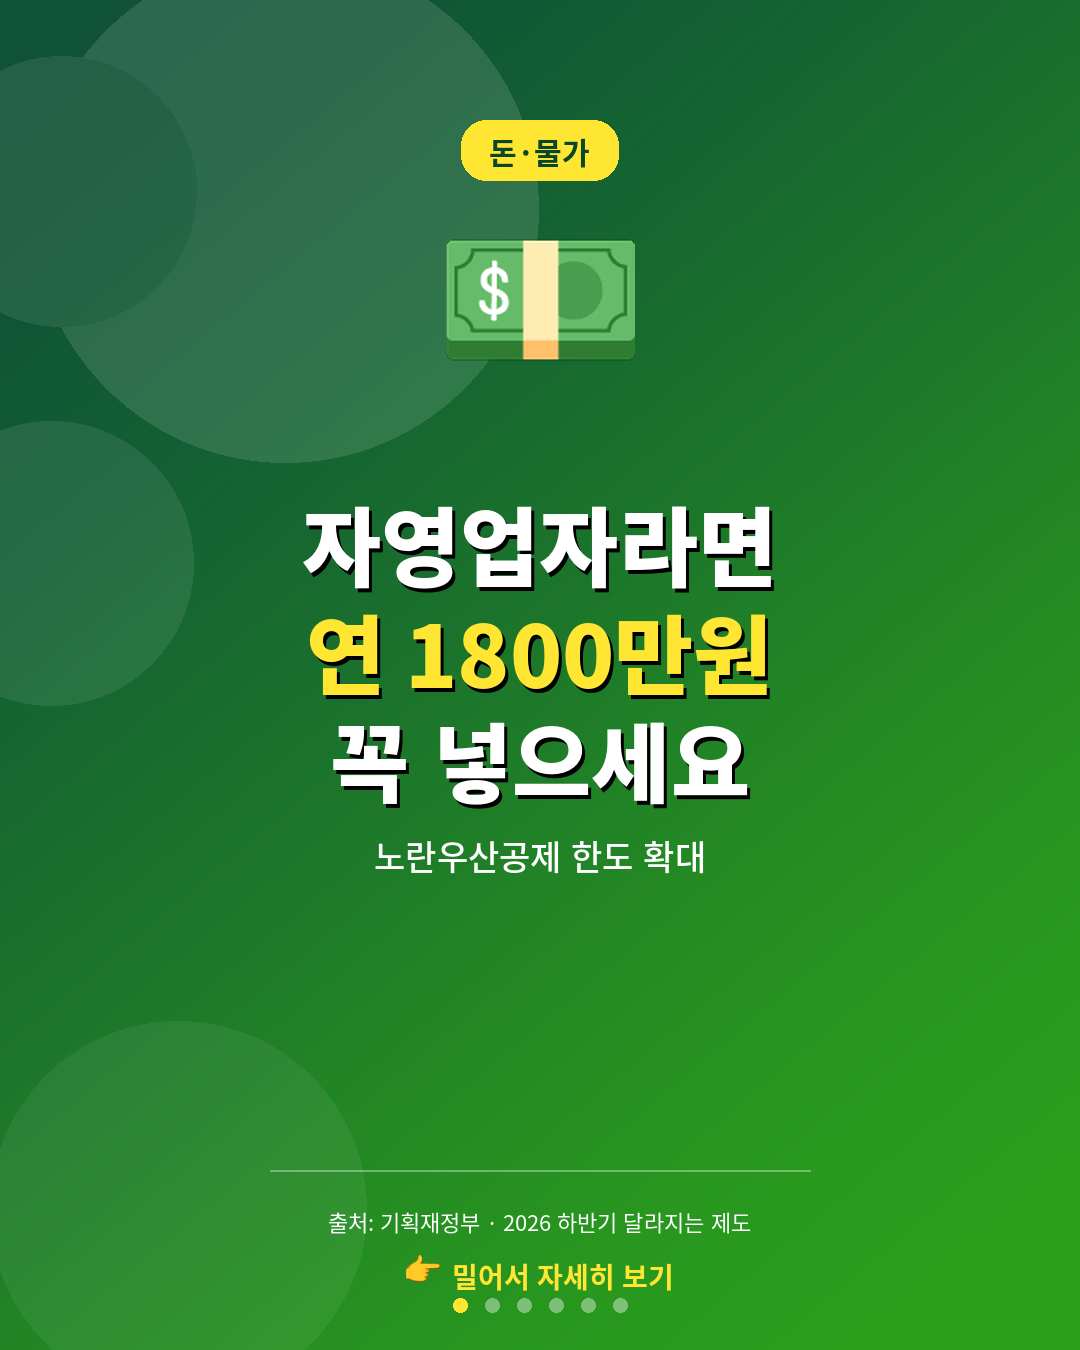
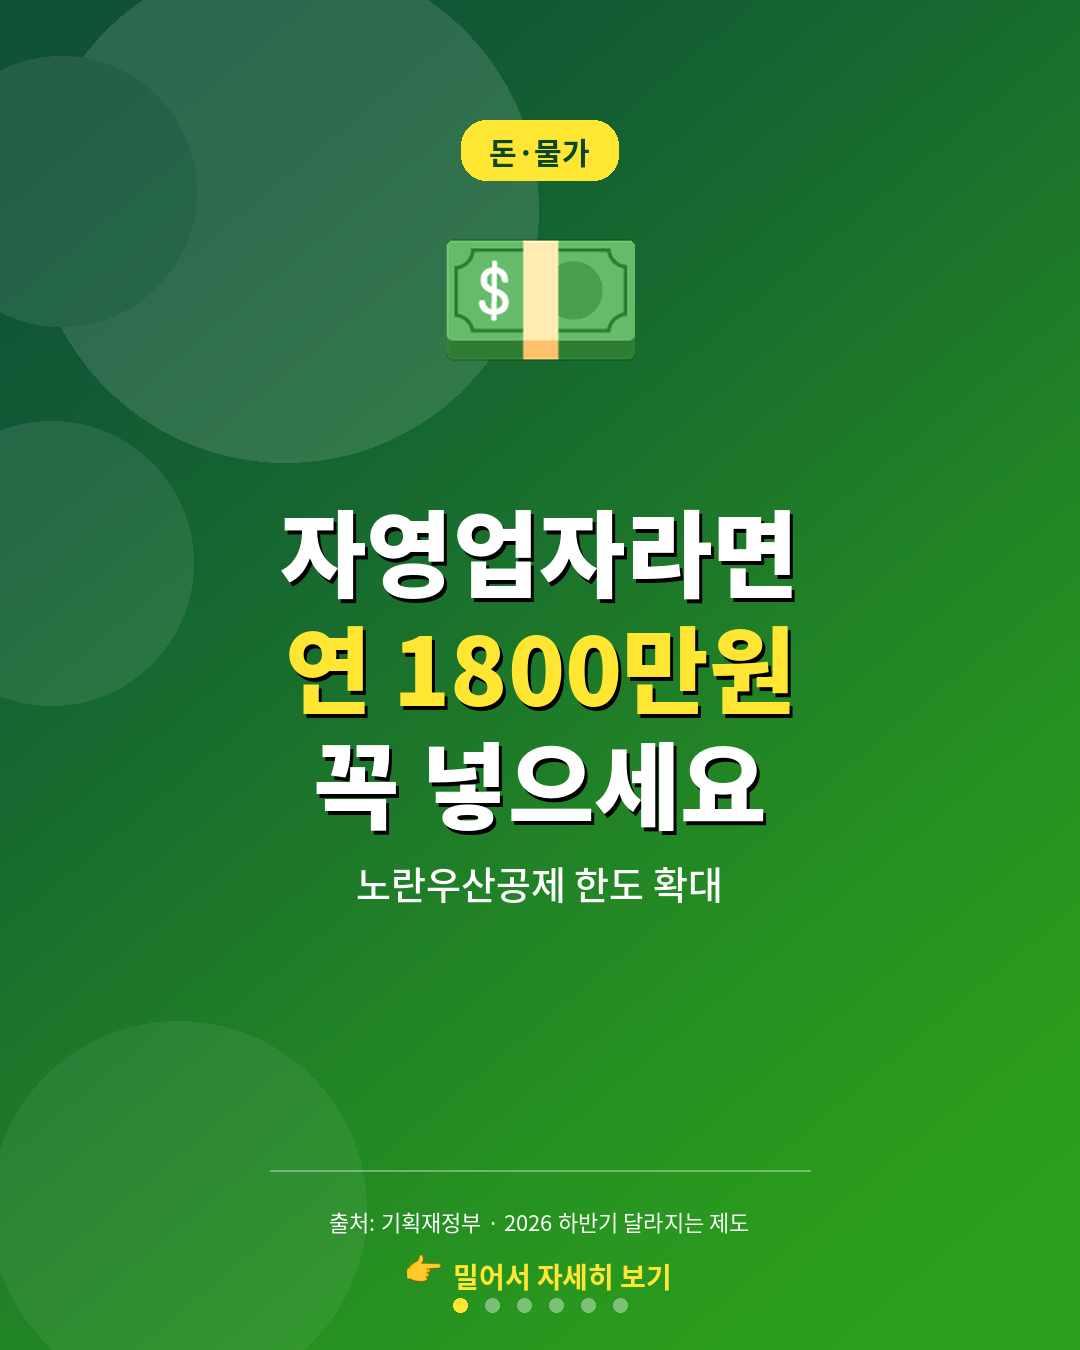
본문을 키우고 한눈에 읽히게 재구성
카드뉴스는 읽는 글이 아니라 스치며 보는 글인데 본문이 200자대 문단이라
글자만 키우면 들어가지 않았다. 분량을 줄이고 핵심 수치를 분리한다.

- 본문 38→46px, 소제목 태그 38→42px, 커버 타이틀 86→94px
- 본문에 <y>…</y> 마크업 지원. 해당 구간만 포인트 컬러로 찍어
  "최대 50배", "1,800만원" 같은 수치가 먼저 읽히게 함
- 대본 3편 본문을 200자대 → 50자 안팎으로 압축. 기존 긴 문장은
  narration으로 옮겨 릴스 TTS용으로 보존
- 줄바꿈이 숫자를 쪼개 "10만원"이 "1/0만원"으로 끊기던 문제 수정.
  숫자와 뒤따르는 한글 단위를 한 토큰으로 묶음
- 콘텐츠 가드 추가: "korean won" 검색에 북한 지폐가 걸려 김일성 초상이
  배경으로 깔린 사례가 있어, 제목·출처 URL 기준으로 부적합 소재를 제외.
  해당 검색어도 국가 특정을 빼고 사물 중심으로 교체

Claude-Session: https://claude.ai/code/session_01W4yCPYAiRNGdqbEFr8kcA6

diff --git a/cardnews.py b/cardnews.py
@@ -275,6 +275,59 @@ def wrap_char(draw, text, fnt, max_w):
         lines.append(cur)
     return lines
 
+# ── 본문 강조 마크업 ──────────────────
+# 본문에 <y>…</y> 를 쓰면 그 구간만 포인트 컬러로 찍어 핵심 수치가 먼저 읽히게 한다.
+_MARK_RE = re.compile(r"<(/?)([yr])>")
+
+def parse_marked(text):
+    """'<y>1800만원</y>까지' → [('1800만원', True), ('까지', False)]"""
+    runs, buf, on = [], "", False
+    pos = 0
+    for m in _MARK_RE.finditer(text or ""):
+        buf += text[pos:m.start()]
+        closing = m.group(1) == "/"
+        if (not closing) != on:
+            if buf:
+                runs.append((buf, on))
+                buf = ""
+            on = not closing
+        pos = m.end()
+    buf += (text or "")[pos:]
+    if buf:
+        runs.append((buf, on))
+    return runs
+
+# 숫자·영문은 한 덩어리로 묶어 줄 끝에서 쪼개지지 않게 한다.
+# 숫자 뒤에 붙는 한글 단위까지 포함해 "10만원", "12월", "2개월"이 통째로 넘어가게 한다.
+_TOKEN_RE = re.compile(
+    r"[0-9][0-9,.·]*%?[가-힣]*|[A-Za-z][A-Za-z.'-]*|.", re.S)
+
+def wrap_marked(draw, runs, fnt, max_w):
+    """강조 구간을 유지한 채 줄바꿈. 줄마다 [(조각, 강조여부)] 반환."""
+    lines, cur, cur_w = [], [], 0
+    for txt, mark in runs:
+        for tok in _TOKEN_RE.findall(txt):
+            tw = draw.textlength(tok, font=fnt)
+            if cur_w + tw > max_w and cur:
+                lines.append(cur)
+                cur, cur_w = [], 0
+                if tok == " ":      # 줄머리 공백은 버린다
+                    continue
+            if cur and cur[-1][1] == mark:
+                cur[-1] = (cur[-1][0] + tok, mark)
+            else:
+                cur.append((tok, mark))
+            cur_w += tw
+    if cur:
+        lines.append(cur)
+    return lines
+
+def draw_marked_line(draw, line, x, y, fnt, normal, accent):
+    """한 줄을 강조 구간별 색으로 이어 그린다."""
+    for seg, mark in line:
+        draw.text((x, y), seg, font=fnt, fill=accent if mark else normal)
+        x += draw.textlength(seg, font=fnt)
+
 def wrap_words(draw, text, fnt, max_w):
     words = text.split()
     lines, cur = [], ""
@@ -351,7 +404,7 @@ def make_cover(sc, t, photo=None, credit=None):
 
     # 메인 타이틀 — 매우 큰 텍스트
     y = 480
-    tf_big = font(FONT_BLACK, 86)
+    tf_big = font(FONT_BLACK, 94)
     for line in lines:
         clean = line.replace("<r>","").replace("</r>","").replace("<y>","").replace("</y>","")
         is_acc = "<r>" in line or "<y>" in line
@@ -360,12 +413,12 @@ def make_cover(sc, t, photo=None, credit=None):
         color = t["accent"] if is_acc else WHITE
         d.text((x+3, y+4), clean, font=tf_big, fill=(0, 0, 0, 90))
         d.text((x, y), clean, font=tf_big, fill=color)
-        y += 108
+        y += 116
 
     # 부제
     sub = sc.get("title", "")
     if sub:
-        sf = font(FONT_MED, 34)
+        sf = font(FONT_MED, 38)
         y += 26
         bb = d.textbbox((0,0), sub, font=sf)
         d.text(((W-(bb[2]-bb[0]))//2, y), sub, font=sf, fill=(255, 255, 255, 215))
@@ -419,14 +472,15 @@ def make_scene(sc, idx, total, t, photo=None, credit=None):
         body = (narration + " " if narration else "") + " ".join(scene.get("details", []))
 
     measure = ImageDraw.Draw(img)
-    body_f = font(FONT_REG, 38)
+    # 한눈에 들어오게: 본문을 키우고 핵심 수치는 포인트 컬러로 분리
+    body_f = font(FONT_MED, 46)
     subtitle = scene.get("subtitle", "")
-    tag_f = font(FONT_BOLD, 38)
+    tag_f = font(FONT_BOLD, 42)
 
     card_margin = 50
     body_max_w = W - card_margin*2 - 90
-    body_lh = 60
-    body_lines = wrap_char(measure, body, body_f, body_max_w)
+    body_lh = 70
+    body_lines = wrap_marked(measure, parse_marked(body), body_f, body_max_w)
 
     tag_bb = measure.textbbox((0,0), subtitle, font=tag_f)
     tag_w = tag_bb[2]-tag_bb[0] + 56
@@ -471,7 +525,7 @@ def make_scene(sc, idx, total, t, photo=None, credit=None):
     for line in body_lines:
         if body_y > card_bottom - 70:
             break
-        d.text((body_x, body_y), line, font=body_f, fill=WHITE)
+        draw_marked_line(d, line, body_x, body_y, body_f, WHITE, t["accent"])
         body_y += body_lh
 
     # 출처 (+ 사진 크레딧)

diff --git a/photos.py b/photos.py
@@ -118,6 +118,7 @@ def search_unsplash(query, key, n=8):
             continue
         out.append({
             "url": u,
+            "title": (it.get("description") or it.get("alt_description") or ""),
             "source": "Unsplash",
             "creator": ((it.get("user") or {}).get("name") or ""),
             "license": "Unsplash License",
@@ -148,6 +149,7 @@ def search_openverse(query, n=12):
             continue
         out.append({
             "url": u,
+            "title": it.get("title") or "",
             "source": it.get("source") or "Openverse",
             "creator": it.get("creator") or "",
             "license": (it.get("license") or "").upper(),
@@ -196,12 +198,26 @@ def search_wikimedia(query, n=12):
             continue
         out.append({
             "url": u,
+            "title": p.get("title") or "",
             "source": "Wikimedia Commons",
             "creator": re.sub(r"<[^>]+>", "", (meta.get("Artist") or {}).get("value", ""))[:60],
             "license": lic,
             "page": ii.get("descriptionurl") or "",
         })
     return out
+
+
+# 한국 소비자 대상 카드뉴스에 실리면 곤란한 소재를 제목·출처 URL에서 걸러낸다.
+# (예: "korean won" 검색에 북한 원화 지폐가 걸려 김일성 초상이 배경으로 깔린 사례)
+_BLOCK_RE = re.compile(
+    r"(north[ _-]?korea|dprk|democratic[ _-]people|pyongyang|kim[ _-]il[ _-]sung|"
+    r"kim[ _-]jong|juche|nazi|swastika|hitler|isis|taliban|"
+    r"corpse|autopsy|funeral|grave|cemetery|protest|riot|war|weapon|gun|rifle)",
+    re.I)
+
+def _content_ok(cand):
+    hay = " ".join(str(cand.get(k, "")) for k in ("title", "page", "url", "creator"))
+    return not _BLOCK_RE.search(hay)
 
 
 def search_all(query, n=12):
@@ -218,8 +234,10 @@ def search_all(query, n=12):
     for name, fn in providers:
         try:
             res = fn()
-            print(f"    [{name}] {len(res)}건 후보")
-            merged.extend(res)
+            kept = [c for c in res if _content_ok(c)]
+            dropped = len(res) - len(kept)
+            print(f"    [{name}] {len(kept)}건 후보" + (f" (부적합 {dropped}건 제외)" if dropped else ""))
+            merged.extend(kept)
         except Exception as e:
             print(f"    [{name}] 실패: {e}")
         # 충분히 모였고 선두 공급자(유료키)면 더 찾지 않는다
